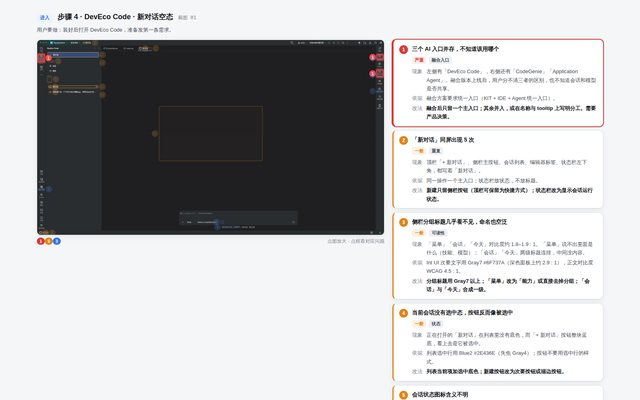
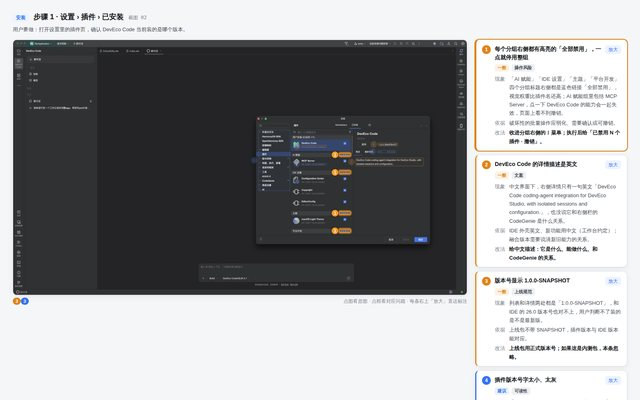
26.0 走查接入上传的原图：01–06 换成 2560px 清晰图、标注逐张核对；新增 5 张（14–18）为步骤 4/7/9/11/12，步骤按流程重排为 18 步、73 个问题
Claude-Session: https://claude.ai/code/session_01HsLiuXw9GEzdrquzWL26SL

diff --git a/analysis/walkthrough-26.0/REPORT-走查报告.html b/analysis/walkthrough-26.0/REPORT-走查报告.html
@@ -202,9 +202,9 @@ var W = 2000, H = 1125;
 
 var STAGES = [
   { id:'install', title:'安装', tag:'设置 › 插件', flow:[ {step:1}, {step:2}, {step:3}, {gap:'G1'} ] },
-  { id:'enter',   title:'进入', tag:'DevEco Code 面板', flow:[ {gap:'G2'}, {step:4} ] },
-  { id:'use',     title:'使用', tag:'一句话建工程', flow:[ {step:5}, {step:6}, {step:7}, {gap:'G3'} ] },
-  { id:'switch',  title:'换工程继续', tag:'打开新建的工程', flow:[ {step:8}, {step:9}, {step:10}, {step:11}, {step:12}, {step:13} ] },
+  { id:'enter',   title:'进入', tag:'DevEco Code 面板', flow:[ {gap:'G2'}, {step:4}, {step:5} ] },
+  { id:'use',     title:'使用', tag:'一句话建工程', flow:[ {step:6}, {step:7}, {step:8}, {step:9}, {step:10}, {step:11}, {gap:'G3'} ] },
+  { id:'switch',  title:'换工程继续', tag:'打开新建的工程', flow:[ {step:12}, {step:13}, {step:14}, {step:15}, {step:16}, {step:17}, {step:18} ] },
 ];
 
 var GAPS = {
@@ -280,7 +280,22 @@ var STEPS = [
         boxes:[[656,212,688,350]] },
     ]},
 
-  { no:4, stage:'enter', shot:'01', title:'DevEco Code · 新对话空态',
+  { no:4, stage:'enter', shot:'14', title:'上次的会话 · 停在半句、清单还在转',
+    goal:'打开 DevEco Code，先看到上一次（第一次尝试）的会话：同一句需求，首发失败后重试，回复停在半句。',
+    issues:[
+      { sev:'m', cat:'状态矛盾', title:'本轮已经结束，四处状态各说各话',
+        what:'发送按钮已经可以点、会话列表打了完成的勾，说明这一轮结束了；但编辑器标签还在转圈，待办清单第一项也在转。',
+        rule:'同一会话的状态在各处同源（同 6-3）。',
+        fix:'状态从执行事件派生：本轮结束时清单里未完成的项标「未完成」，标签页和列表同步。',
+        boxes:[[586,40,16,16],[65,262,17,17],[832,866,18,18],[1466,1040,24,22]] },
+      { sev:'m', cat:'待办清单', title:'清单停在 0/4，没有继续或放弃的入口',
+        what:'「待办清单 0/4」一项没做，第一项「编写工时记录App PRD文档」一直在转；清单上没有「继续」「重新规划」「清除」，只能另起一轮。第二次尝试（截图 06）同一需求的清单变成 3 项、顺序也反了。',
+        rule:'长任务中断后要能从断点继续；同一需求的计划应稳定。',
+        fix:'清单中断时显示「已停在第 1 项 · 继续 / 重新规划」；计划变化时说明原因。',
+        boxes:[[818,835,684,147]] },
+    ]},
+
+  { no:5, stage:'enter', shot:'01', title:'DevEco Code · 新对话空态',
     goal:'装好后打开 DevEco Code，准备发第一条需求。',
     issues:[
       { sev:'s', cat:'融合入口', title:'三个 AI 入口并存，不知道该用哪个',
@@ -330,7 +345,7 @@ var STEPS = [
         boxes:[[1061,1072,112,17]] },
     ]},
 
-  { no:5, stage:'use', shot:'05', title:'发出需求 · 首次无响应后重试',
+  { no:6, stage:'use', shot:'05', title:'发出需求 · 首次无响应后重试',
     goal:'发一句需求「开发工时记录鸿蒙 app，写 PRD 并建工程」，第一次失败后点重试。',
     issues:[
       { sev:'s', cat:'错误反馈', title:'失败只是一行灰色小字',
@@ -370,7 +385,27 @@ var STEPS = [
         boxes:[[816,478,124,16],[1061,1072,112,17]] },
     ]},
 
-  { no:6, stage:'use', shot:'06', title:'执行中 · 授权与待办清单',
+  { no:7, stage:'use', shot:'15', title:'点「继续」「重试」· 推不动',
+    goal:'回复停在「先加载创建工程的技能：」之后没有下文，用户依次点「继续」「重试」「重试」想让它接着做。',
+    issues:[
+      { sev:'s', cat:'推不动', title:'点了三次，每次只多一个气泡',
+        what:'「继续」「重试」「重试」依次变成右侧的用户气泡堆在对话里，每次点完都没有任何回应，最后只剩底部「生成中」。用户不知道哪一次生效了、要不要再点。',
+        rule:'每次操作都要有可见结果；重试应替换失败的那一轮，而不是追加消息。',
+        fix:'「重试」就地重跑上一轮并替换内容，「继续」从断点接着执行；执行中禁用这两个按钮并显示进度。',
+        boxes:[[1458,503,46,32],[1458,553,46,32],[1458,603,46,32],[816,652,52,18]] },
+      { sev:'m', cat:'按钮残留', title:'最早的「重试」还留在对话里',
+        what:'第一次失败下面的「重试」一直在，和后面几个长得一样，分不清哪个对应哪次失败；点过之后也不置灰。',
+        rule:'一次性的操作按钮用过即失效。',
+        fix:'点过的「重试」置灰并标「已重试」；只保留最近一次失败的重试入口。',
+        boxes:[[1458,208,46,32]] },
+      { sev:'m', cat:'会话列表', title:'会话列表时有时无',
+        what:'截图 01 里列表有两条会话；到这里只剩当前这一条，上一次的会话不见了；截图 06 里又回来了。',
+        rule:'列表内容稳定，只因用户操作变化。',
+        fix:'列表只增不减（删除除外）；刷新时保留已有条目。',
+        boxes:[[62,260,294,20]] },
+    ]},
+
+  { no:8, stage:'use', shot:'06', title:'执行中 · 授权与待办清单',
     goal:'选定项目名后，看 Agent 建工程、读目录、推进待办清单。',
     issues:[
       { sev:'s', cat:'状态矛盾', title:'待办清单的顺序和状态对不上',
@@ -405,7 +440,22 @@ var STEPS = [
         boxes:[[317,262,16,16]] },
     ]},
 
-  { no:7, stage:'use', shot:'07', title:'继续执行 · 要用户一句句推',
+  { no:9, stage:'use', shot:'16', title:'停在「我将直接使用文件工具来操作。」',
+    goal:'Agent 读完目录、说「我将直接使用文件工具来操作」之后，等它继续。',
+    issues:[
+      { sev:'m', cat:'自主执行', title:'说完「我将…」就结束了本轮',
+        what:'最后一句是「项目已创建但尚未在 DevEco Studio 中打开，我将直接使用文件工具来操作。」，之后发送按钮恢复、列表打勾，它说要做的事没有做。用户只好发「使用文件工具来操作打开」（截图 07）。这是 10-1 的现场。',
+        rule:'说了「接下来做 X」就接着做（同 10-1）。',
+        fix:'同 10-1。',
+        boxes:[[816,712,378,18],[1466,1040,24,22]] },
+      { sev:'m', cat:'状态矛盾', title:'本轮已结束，清单第一项和标签页还在转',
+        what:'「待办清单 2/3」第一项「创建 TimeTracker 鸿蒙工程」还在转圈，编辑器标签也在转；会话列表两条都是完成的勾。',
+        rule:'同一会话的状态在各处同源（同 6-3）。',
+        fix:'同 4-1。',
+        boxes:[[832,896,18,18],[586,40,16,16],[65,262,17,17]] },
+    ]},
+
+  { no:10, stage:'use', shot:'07', title:'继续执行 · 要用户一句句推',
     goal:'同一会话往下走：等 Agent 把工程打开、把 PRD 写出来。',
     issues:[
       { sev:'s', cat:'自主执行', title:'一句话里说清的两件事，Agent 停了几次要人推',
@@ -420,13 +470,13 @@ var STEPS = [
         boxes:[[816,892,432,18],[816,920,182,16]] },
       { sev:'m', cat:'状态矛盾', title:'还在生成中，标签页和状态栏已经打勾',
         what:'对话底部是「生成中」，会话列表是转圈，但编辑器标签和状态栏左下角已经是完成的勾。同一个会话三处状态三个样。',
-        rule:'同一会话的状态在各处同源（同 5-3）。',
+        rule:'同一会话的状态在各处同源（同 6-3）。',
         fix:'标签页、会话列表、状态栏共用一个状态：进行中转圈、完成打勾、中断带提示。',
         boxes:[[588,40,15,15],[10,1104,17,17],[816,940,50,18],[65,262,17,17]] },
       { sev:'m', cat:'一致性', title:'同样的 4 条授权记录，换了一种样子',
         what:'截图 06 里这 4 条是带勾的绿色条；这里（同一会话往下滚）变成灰色小字，下面又重复一行「external_directory」。同一事件在执行中和执行后是两种样式。',
         rule:'同一类消息一种样式，状态变化只改图标或颜色。',
-        fix:'统一成一种授权记录组件，并合并重复项（见 6-2）。',
+        fix:'统一成一种授权记录组件，并合并重复项（见 8-2）。',
         boxes:[[822,458,206,204]] },
       { sev:'m', cat:'进度', title:'任务没做完，待办清单不见了',
         what:'截图 06 里输入框上方有「待办清单 2/3」；这里仍在生成中，清单却没有了，用户看不出现在做到第几步。',
@@ -435,12 +485,42 @@ var STEPS = [
         boxes:[[818,956,684,28]] },
       { sev:'l', cat:'重复', title:'每段回复都挂一遍免责声明和操作按钮',
         what:'一屏里「该内容由AI生成，仅供参考」加「重新生成 / 复制」出现 3 次，输入框下方还有一次。',
-        rule:'同一提示同屏出现一次（同 5-7）。',
+        rule:'同一提示同屏出现一次（同 6-7）。',
         fix:'免责声明只放在输入框下；重新生成、复制悬停时出现。',
         boxes:[[816,263,124,15],[816,699,124,15],[816,798,124,15]] },
     ]},
 
-  { no:8, stage:'switch', shot:'08', title:'打开新建的工程 · 之前的对话没了',
+  { no:11, stage:'use', shot:'17', title:'让用户自己去打开工程',
+    goal:'用户发「编写 PRD 文档」后，Agent 先尝试在 DevEco Studio 里打开 TimeTracker 工程。',
+    issues:[
+      { sev:'s', cat:'融合断点', title:'Agent 在 IDE 里，却让用户手动打开工程',
+        what:'它刚说「我来先在 DevEco Studio 中打开 TimeTracker 项目」，调用 Deveco_Studio_open_file_in_editor 之后却改口：「当前 DevEco Studio 打开的是 MyApplication 项目。你需要在 DevEco Studio 中手动打开 TimeTracker 项目目录。」融合版本最该打通的一步，交回给了用户。',
+        rule:'Agent 能创建的工程，就要能打开；做不到时给一键操作而不是文字指引。',
+        fix:'提供打开工程的能力（新窗口 / 当前窗口）；做不到时在消息里给「在 DevEco Studio 中打开」按钮，打开时带上当前会话（见 13-1）。',
+        boxes:[[816,848,686,32],[816,799,430,18]] },
+      { sev:'m', cat:'路径', title:'路径像链接，但不知道点了会怎样',
+        what:'「/Users/cindy/DevEcoStudioProjects/TimeTracker」是蓝色等宽字，看起来能点，但不清楚是在 Finder 打开、在 IDE 打开还是复制。',
+        rule:'可点的元素要说明结果。',
+        fix:'路径后面给明确按钮：「在 DevEco Studio 中打开」「在 Finder 中显示」「复制路径」。',
+        boxes:[[950,849,307,15]] },
+    ]},
+
+  { no:12, stage:'switch', shot:'18', title:'打开 TimeTracker 窗口 · 面板加载中',
+    goal:'用户按提示手动打开 TimeTracker 工程，新窗口里的 DevEco Code 面板开始加载。',
+    issues:[
+      { sev:'m', cat:'加载', title:'只有「加载中…」，「新对话」置灰',
+        what:'面板中间一行灰字「加载中…」，「新对话」按钮不能点，没有进度也不知道要等多久；加载完（截图 08）列表也是空的。',
+        rule:'加载超过 1 秒给骨架或进度；加载时不阻塞新建。',
+        fix:'会话列表用骨架屏；「新对话」加载期间可用。',
+        boxes:[[350,216,50,18],[58,69,634,32]] },
+      { sev:'m', cat:'衔接', title:'打开 Agent 建的工程，看不到它做了什么',
+        what:'这是 Agent 刚建好的工程，但编辑区是 IDE 默认的空白提示（随处搜索、项目视图…），没有打开写好的 PRD 或入口文件，也没提示「在 DevEco Code 里继续」。',
+        rule:'由对话创建的工程，打开时回到任务上下文。',
+        fix:'打开后自动显示 PRD 与入口文件，并在面板里定位到来源会话。',
+        boxes:[[1250,410,160,165]] },
+    ]},
+
+  { no:13, stage:'switch', shot:'08', title:'打开新建的工程 · 之前的对话没了',
     goal:'在 Agent 建好的 TimeTracker 工程里继续：打开这个工程，接着让它写 PRD。',
     issues:[
       { sev:'s', cat:'会话丢失', title:'对话按工程存，换到它建的工程后整段对话不见了',
@@ -460,7 +540,7 @@ var STEPS = [
         boxes:[[1392,86,279,32],[1392,194,279,32],[1392,302,279,32]] },
       { sev:'m', cat:'状态矛盾', title:'一边报错一边「生成中」',
         what:'编辑器标签、状态栏左下角和右下角都是「!」错误标记，会话列表却在转圈、对话底部是「生成中」，看不出这一次到底成没成。',
-        rule:'同一会话的状态在各处同源（同 5-3、7-3）。',
+        rule:'同一会话的状态在各处同源（同 6-3、10-3）。',
         fix:'第三次发送开始后清掉错误标记；只在最近一次失败时显示「!」。',
         boxes:[[715,40,16,16],[10,1104,16,17],[1971,1104,16,17],[65,262,17,17],[984,351,50,18]] },
       { sev:'m', cat:'一致性', title:'换个工程，右侧工具窗条顺序就变了',
@@ -475,7 +555,7 @@ var STEPS = [
         boxes:[[48,66,648,40]] },
     ]},
 
-  { no:9, stage:'switch', shot:'09', title:'再开新会话重发 · 输入「/」调命令',
+  { no:14, stage:'switch', shot:'09', title:'再开新会话重发 · 输入「/」调命令',
     goal:'上一段发不出去，新开一个会话把需求再发一遍；等待时输入「/」看有哪些命令和技能。',
     issues:[
       { sev:'m', cat:'内容准确', title:'命令说明和命令名对不上，还有错字',
@@ -495,7 +575,7 @@ var STEPS = [
         boxes:[[782,983,312,12]] },
       { sev:'m', cat:'状态矛盾', title:'发送失败的会话被标成完成，且没有标题',
         what:'截图 08 那段两次报「ACP client is not connected」的会话，现在列表里是完成的勾、标题还是「新对话」；当前会话却用需求原文命名。',
-        rule:'失败的会话显示失败状态；会话标题规则一致（同 5-6）。',
+        rule:'失败的会话显示失败状态；会话标题规则一致（同 6-6）。',
         fix:'失败会话标「!」并可一键重试；所有会话按首条需求自动生成短标题。',
         boxes:[[65,292,17,17],[86,292,40,16],[86,262,136,16]] },
       { sev:'l', cat:'进度', title:'只有「生成中」三个字',
@@ -510,12 +590,12 @@ var STEPS = [
         boxes:[[1020,812,68,14]] },
       { sev:'l', cat:'布局', title:'同一工程里面板宽度又变了',
         what:'截图 08 里 DevEco Code 面板约 660px，这里约 235px，对话区左右位置也跟着跳。',
-        rule:'面板宽度随 IDE 记住（同 8-6）。',
+        rule:'面板宽度随 IDE 记住（同 13-6）。',
         fix:'记住用户最后一次拖拽的宽度。',
         boxes:[[48,66,220,40]] },
     ]},
 
-  { no:10, stage:'switch', shot:'10', title:'没有结果 · 试 /compact、换模型',
+  { no:15, stage:'switch', shot:'10', title:'没有结果 · 试 /compact、换模型',
     goal:'需求发出去后没有下文，用户先发「/compact」，再准备输「/debug」并打开模型下拉看能不能换模型。',
     issues:[
       { sev:'s', cat:'无结果', title:'只跑了一次读目录就停了，没有任何回复',
@@ -530,7 +610,7 @@ var STEPS = [
         boxes:[[1386,175,74,32]] },
       { sev:'m', cat:'状态矛盾', title:'标签页还在转圈，列表已完成，状态栏是空心圆',
         what:'同一个会话：编辑器标签是加载转圈，会话列表是完成的勾，状态栏左下角是空心圆。',
-        rule:'同一会话的状态在各处同源（同 5-3、7-3、8-4）。',
+        rule:'同一会话的状态在各处同源（同 6-3、10-3、13-4）。',
         fix:'三处共用一个状态源。',
         boxes:[[290,40,16,16],[65,262,17,17],[10,1104,17,17]] },
       { sev:'m', cat:'模型菜单', title:'展开态和选中项同样蓝底，两个模型看不出区别',
@@ -540,7 +620,7 @@ var STEPS = [
         boxes:[[872,979,136,60],[872,1042,136,21]] },
     ]},
 
-  { no:11, stage:'switch', shot:'11', title:'切换模式 · Build / Goal / Plan',
+  { no:16, stage:'switch', shot:'11', title:'切换模式 · Build / Goal / Plan',
     goal:'打开输入框左下的模式下拉，看 Build、Goal、Plan 有什么区别。',
     issues:[
       { sev:'m', cat:'遮挡', title:'模式菜单盖住输入框里的文字',
@@ -554,13 +634,13 @@ var STEPS = [
         fix:'每项加中文名和一句说明，如「Plan 规划 · 先出方案再动手」「Goal 目标 · 自动连续完成」。',
         boxes:[[818,1001,44,36]] },
       { sev:'l', cat:'一致性', title:'展开时按钮和选中项同样蓝底',
-        what:'同 10-4：Build 按钮展开时整块蓝底，和菜单里选中的 Build 一样。',
+        what:'同 15-4：Build 按钮展开时整块蓝底，和菜单里选中的 Build 一样。',
         rule:'Int UI 下拉展开态用聚焦描边。',
-        fix:'同 10-4。',
+        fix:'同 15-4。',
         boxes:[[812,1042,54,21]] },
     ]},
 
-  { no:12, stage:'switch', shot:'12', title:'点「+」添加上下文',
+  { no:17, stage:'switch', shot:'12', title:'点「+」添加上下文',
     goal:'点输入框左下的「+」，想给 Agent 补充文件等上下文。',
     issues:[
       { sev:'m', cat:'添加上下文', title:'「+」里只有一个「添加文件」，和「@」两套入口',
@@ -575,7 +655,7 @@ var STEPS = [
         boxes:[[779,992,40,17]] },
     ]},
 
-  { no:13, stage:'switch', shot:'13', title:'面板「⋮」更多菜单',
+  { no:18, stage:'switch', shot:'13', title:'面板「⋮」更多菜单',
     goal:'点 DevEco Code 面板标题栏的「⋮」，找设置或会话管理。',
     issues:[
       { sev:'m', cat:'设置入口', title:'「⋮」里只有 IDE 通用的窗口选项',

diff --git a/site/catalog.js b/site/catalog.js
@@ -285,7 +285,7 @@ window.DEVECO_CATALOG = {
       items: [
         {
           title: 'DevEco Code 26.0 融合版本 · 上线走查', subtitle: 'v26.0 Walkthrough · Install to First Use',
-          desc: '从安装到使用：设置里从磁盘装插件 → 首次进入 → 一句话建工程写 PRD → 打开新建的工程。13 张截图、62 个问题，左图右文，问题直接框在截图上，悬停联动；附问题总表与待补页面。',
+          desc: '从安装到使用：设置里从磁盘装插件 → 首次进入 → 一句话建工程写 PRD → 打开新建的工程。18 步、73 个问题，左图右文，问题直接框在截图上，悬停联动；附问题总表与待补页面。',
           view: 'doc', date: '2026-09-24', href: 'analysis/walkthrough-26.0/REPORT-走查报告.html',
           links: [{ label: '流程清单', href: 'analysis/walkthrough-26.0/flows.md' }, { label: '走查说明', href: 'analysis/walkthrough-26.0/README.md' }],
           tags: ['26.0', '走查', '从安装到使用', 'DevEco Code'], thumb: { type: 'image', src: 'site/thumbs/walkthrough-26.jpg' },

diff --git a/analysis/walkthrough-26.0/flows.md b/analysis/walkthrough-26.0/flows.md
@@ -1,7 +1,7 @@
 # 26.0 走查 · 流程清单
 
 走查对象：DevEco Code 26.0 融合版本（DevEco Studio 内的 DevEco Code 插件，1.0.0-SNAPSHOT，模型 DevEco Code/GLM-5.1），macOS。
-主线：**从安装到使用**。截图编号按收到的顺序，步骤编号按流程顺序。
+主线：**从安装到使用**。截图编号按收到的顺序（14–18 是 2026-09-24 上传的原图里多出来的几张），步骤编号按流程顺序。
 
 ## F1 · 从安装到第一次用 DevEco Code 建工程
 
@@ -15,17 +15,22 @@
 | 安装 | 3 | `images/04` | 在文件选择框里找插件安装包 |
 | 安装 | — | **缺页** | 安装进度、安装成功、是否需要重启 IDE |
 | 进入 | — | **缺页** | 重启后第一次打开 DevEco Code：欢迎 / 登录 / 协议授权 / 模型选择 |
-| 进入 | 4 | `images/01` | 打开 DevEco Code，面对新对话空态 |
-| 使用 | 5 | `images/05` | 发出需求「开发工时记录鸿蒙 app，写 PRD 并建工程」；首发失败后重试 |
-| 使用 | 6 | `images/06` | 选定项目名，Agent 建工程、读目录、跑待办清单 |
-| 使用 | 7 | `images/07` | 同一会话往下走：Agent 停下，用户发「使用文件工具来操作打开」「编写 PRD 文档」推它继续 |
-| 使用 | — | **缺页** | 完成态：工程创建结果、PRD 产出、在 DevEco Studio 中打开工程 |
-| 换工程继续 | 8 | `images/08` | 打开 Agent 建好的 TimeTracker 工程：会话列表只剩「新对话」，之前的对话消失；重发需求两次报「ACP client is not connected」 |
-| 换工程继续 | 9 | `images/09` | 再开一个新会话把需求重发；等待时输入「/」，弹出命令与技能菜单 |
-| 换工程继续 | 10 | `images/10` | 只跑了一次读目录就没有下文；发「/compact」无反馈；输入「/debug」、打开模型下拉（GLM-5.1 / 5.3 / 添加模型） |
-| 换工程继续 | 11 | `images/11` | 打开模式下拉：Build / Goal / Plan |
-| 换工程继续 | 12 | `images/12` | 点「+」：只有一项「添加文件」 |
-| 换工程继续 | 13 | `images/13` | 点面板标题栏「⋮」：视图模式 / 移至 / 调整大小 / 从边栏中移除（工具窗条已切成纯图标） |
+| 进入 | 4 | `images/14` | 先看到上一次（第一次尝试）的会话：回复停在半句，待办清单 0/4 还在转 |
+| 进入 | 5 | `images/01` | 点「新对话」，面对新对话空态 |
+| 使用 | 6 | `images/05` | 发出需求「开发工时记录鸿蒙 app，写 PRD 并建工程」；首发失败后重试 |
+| 使用 | 7 | `images/15` | 回复停在半句，依次点「继续」「重试」「重试」，每次只多一个气泡 |
+| 使用 | 8 | `images/06` | 选定项目名，Agent 建工程、读目录、跑待办清单 |
+| 使用 | 9 | `images/16` | Agent 说完「我将直接使用文件工具来操作。」就结束了本轮 |
+| 使用 | 10 | `images/07` | 用户发「使用文件工具来操作打开」「编写 PRD 文档」推它继续 |
+| 使用 | 11 | `images/17` | Agent 打不开工程，让用户「在 DevEco Studio 中手动打开 TimeTracker 项目目录」 |
+| 使用 | — | **缺页** | 完成态：PRD 产出、工程内容 |
+| 换工程继续 | 12 | `images/18` | 手动打开 TimeTracker 窗口，DevEco Code 面板「加载中…」 |
+| 换工程继续 | 13 | `images/08` | 会话列表只剩「新对话」，之前的对话消失；重发需求两次报「ACP client is not connected」 |
+| 换工程继续 | 14 | `images/09` | 再开一个新会话把需求重发；等待时输入「/」，弹出命令与技能菜单 |
+| 换工程继续 | 15 | `images/10` | 只跑了一次读目录就没有下文；发「/compact」无反馈；打开模型下拉 |
+| 换工程继续 | 16 | `images/11` | 打开模式下拉：Build / Goal / Plan |
+| 换工程继续 | 17 | `images/12` | 点「+」：只有一项「添加文件」 |
+| 换工程继续 | 18 | `images/13` | 点面板标题栏「⋮」：视图模式 / 移至 / 调整大小 / 从边栏中移除 |
 
 另缺：侧栏「技能」「模型」两个入口点进去的页面。
 
